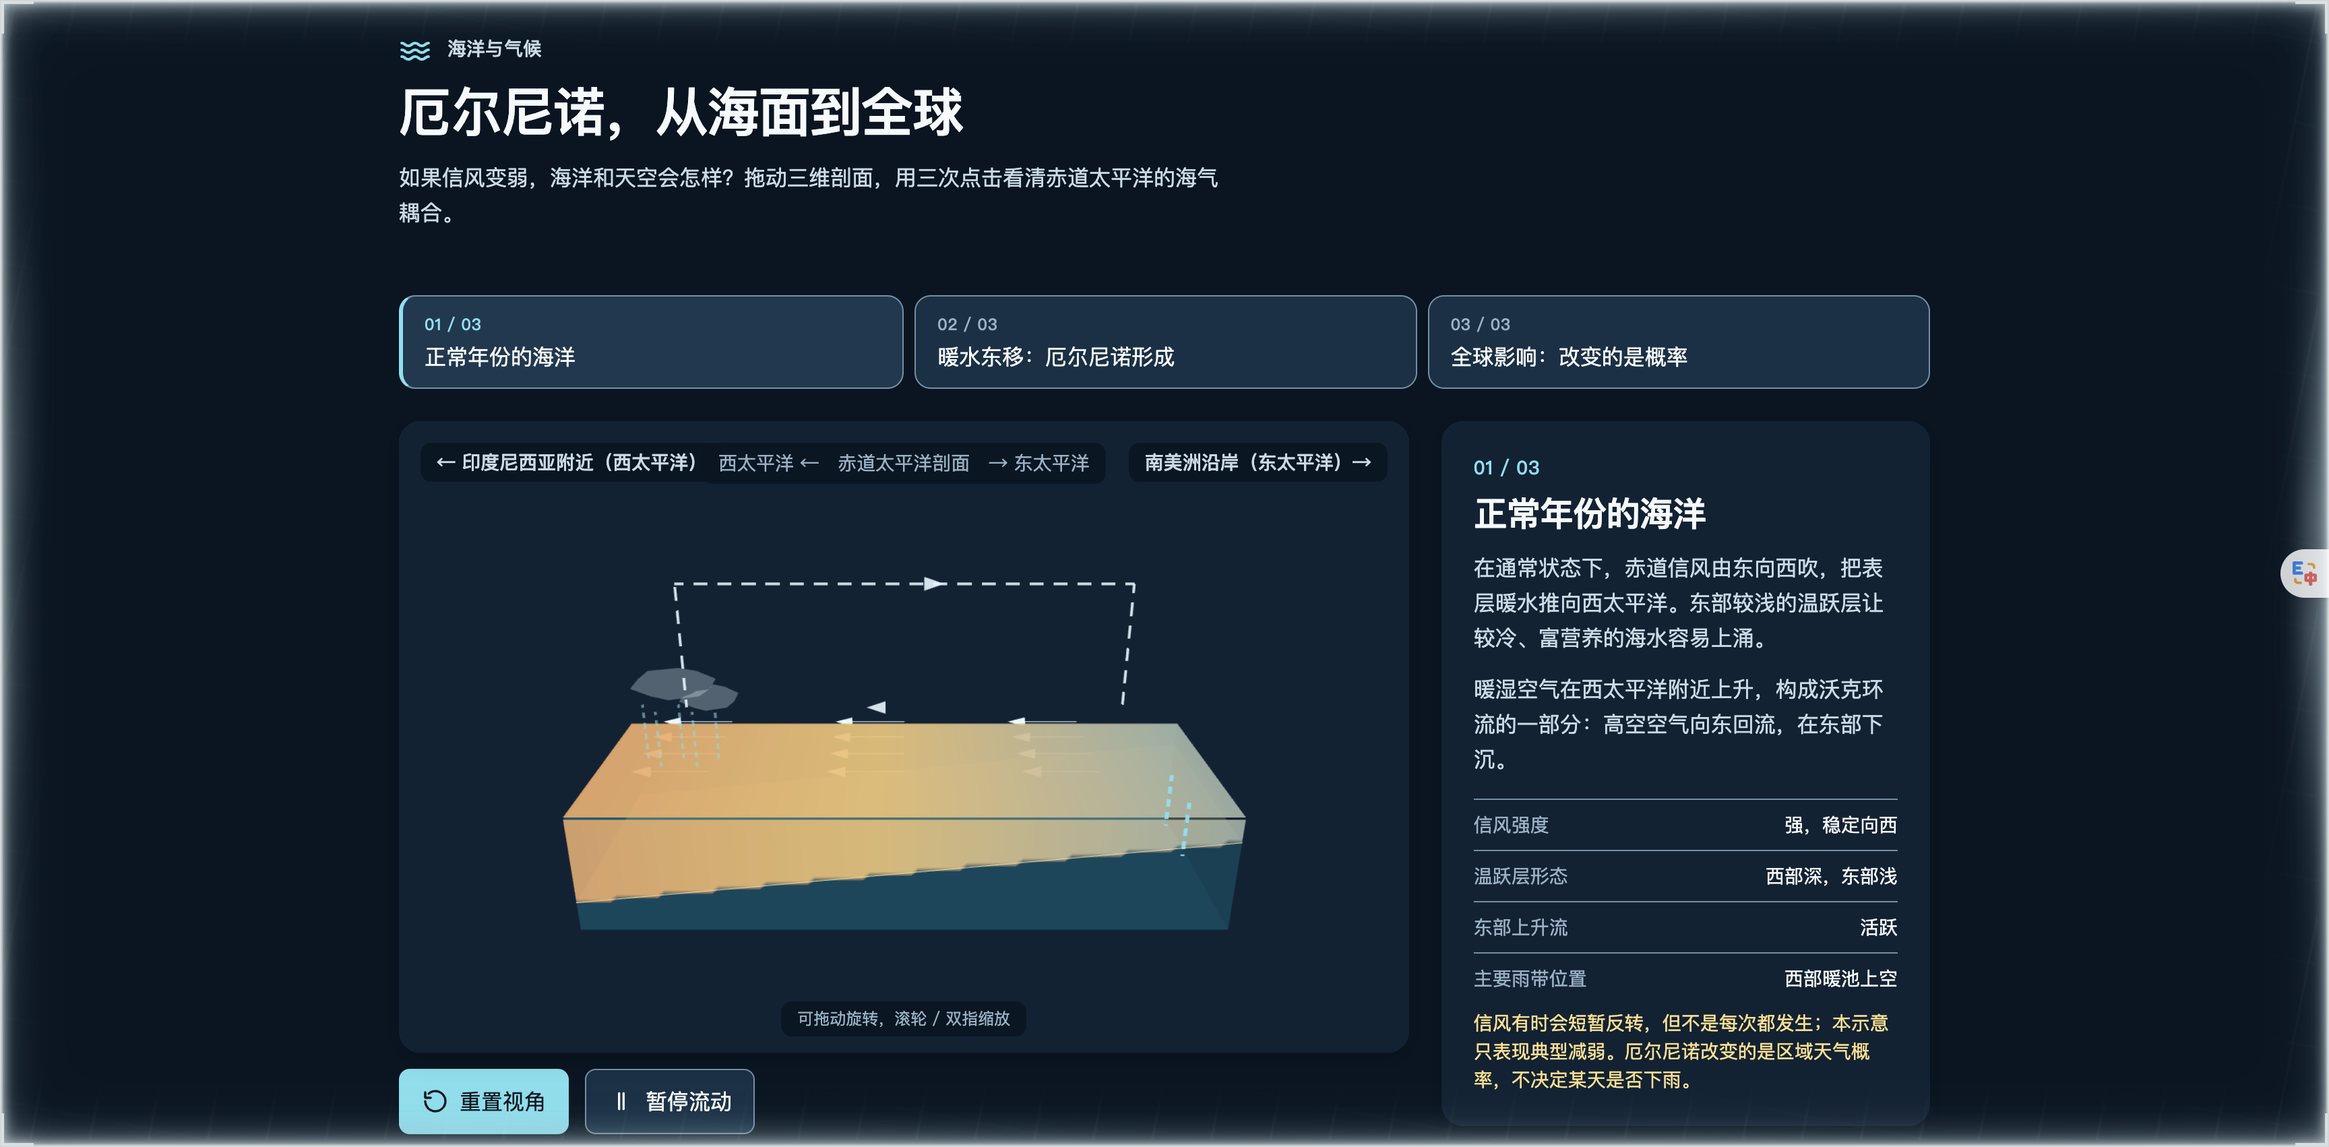
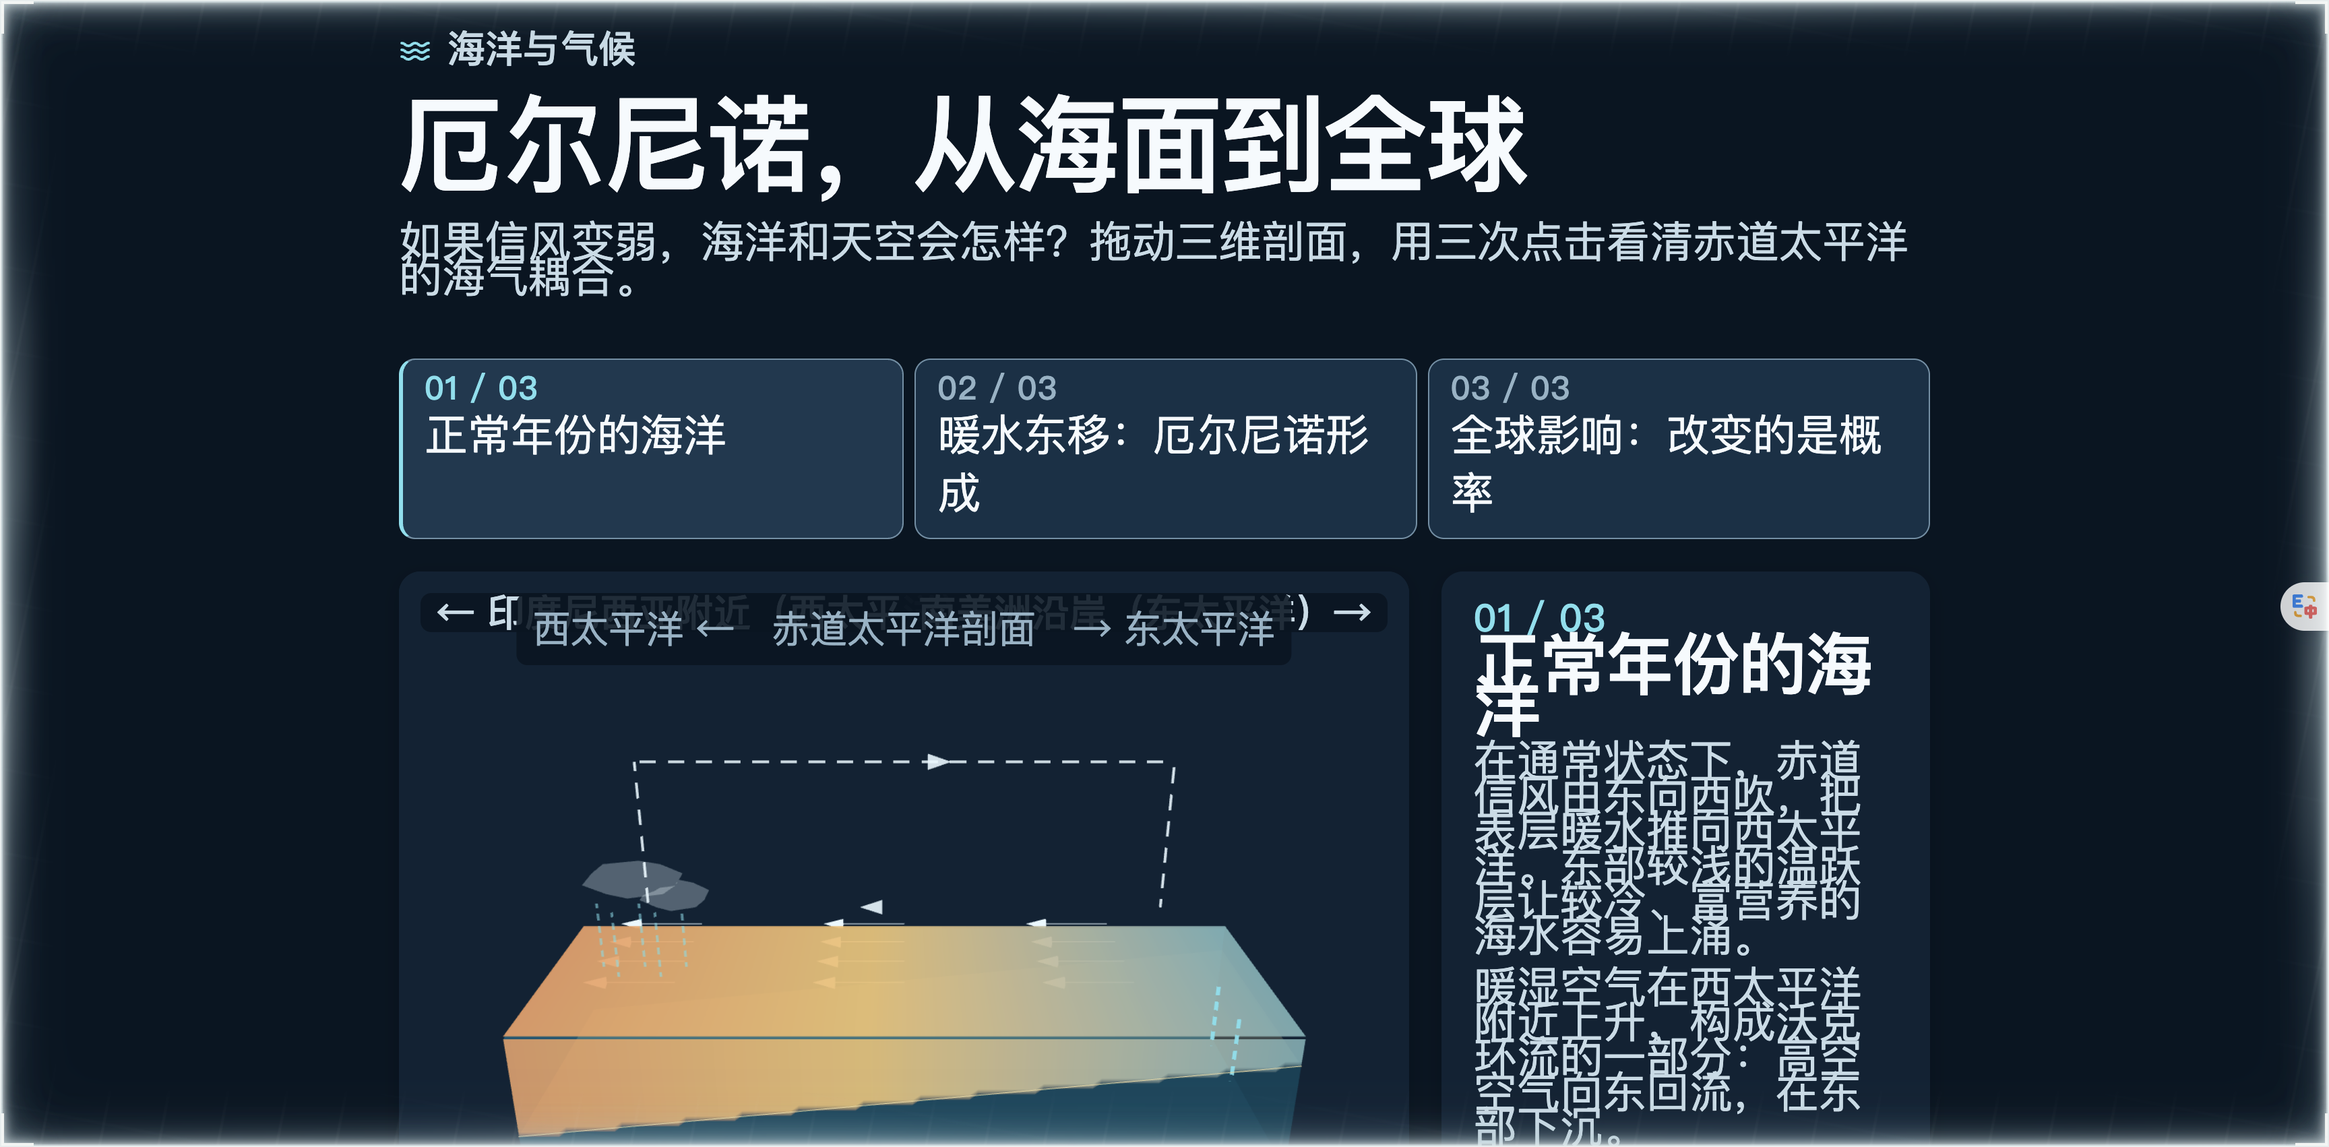
docs: README and execution report; a11y/copy fixes; robust context-loss retry

diff --git a/src/ui/dom.js b/src/ui/dom.js
@@ -205,7 +205,7 @@ export function mountUI(root, callbacks) {
     el(
       'p',
       'footer-note',
-      '本页是概念示意：箭头速度、温跃层高度和海表颜色均不按实际比例，也不展示任何实时监测数据或未来预测。想查当前 ENSO 状况，请访问 NOAA / NASA 的 official 页面。每一次厄尔尼诺事件的强度、位置和具体影响都不完全相同。',
+      '本页是概念示意：箭头速度、温跃层高度和海表颜色均不按实际比例，也不展示任何实时监测数据或未来预测。想查当前 ENSO 状况，请访问 NOAA / NASA 的官方页面。每一次厄尔尼诺事件的强度、位置和具体影响都不完全相同。',
     ),
   );
   const sourceList = el('ul', 'source-list');
@@ -225,6 +225,8 @@ export function mountUI(root, callbacks) {
   page.append(header, nav, mainGrid, impactSection, footer);
   root.append(page);
 
+  let liveCanvas = canvas;
+
   /* ------- 渲染 ------- */
   function renderChapter(chapterId) {
     const chapter = CHAPTERS[getChapterIndex(chapterId)];
@@ -240,7 +242,7 @@ export function mountUI(root, callbacks) {
       li.append(el('span', 'fact-label', fact.label), el('span', 'fact-value', fact.value));
       factsList.append(li);
     }
-    canvas.setAttribute('aria-label', chapter.srSummary);
+    liveCanvas.setAttribute('aria-label', chapter.srSummary);
     figcaption.textContent = chapter.srSummary;
   }
 
@@ -320,7 +322,12 @@ export function mountUI(root, callbacks) {
     setBanner,
     setLoadingStage,
     destroy,
-    canvas,
+    get canvas() {
+      return liveCanvas;
+    },
+    set canvas(el) {
+      liveCanvas = el;
+    },
     resetButton,
     pauseButton,
   };

diff --git a/src/scene/createScene.js b/src/scene/createScene.js
@@ -62,8 +62,14 @@ export function mountScene(container, callbacks) {
 
   let destroyed = false;
   let contextLost = false;
+  const listeners = [];
+  const on = (target, type, fn, opts) => {
+    target.addEventListener(type, fn, opts);
+    listeners.push([target, type, fn]);
+  };
 
-  canvas.addEventListener(
+  on(
+    canvas,
     'webglcontextlost',
     (e) => {
       e.preventDefault();
@@ -73,13 +79,9 @@ export function mountScene(container, callbacks) {
     false,
   );
 
-  canvas.addEventListener(
-    'webglcontextrestored',
-    () => {
-      contextLost = false;
-    },
-    false,
-  );
+  on(canvas, 'webglcontextrestored', () => {
+    contextLost = false;
+  });
 
   function resize() {
     if (destroyed) return;
@@ -144,6 +146,7 @@ export function mountScene(container, callbacks) {
   function destroy() {
     destroyed = true;
     if (camTween) cancelAnimationFrame(camTween.raf);
+    for (const [t, type, fn] of listeners) t.removeEventListener(type, fn);
     ro.disconnect();
     controls.dispose();
     ocean.dispose();

diff --git a/src/main.js b/src/main.js
@@ -69,6 +69,13 @@ const ui = mountUI(app, {
     if (animator) animator.setPaused(paused);
   },
   onRetry: () => {
+    // 重建渲染器最稳妥的方式：换一张全新 canvas（全新上下文），再挂载场景
+    const oldCanvas = document.getElementById('scene-canvas');
+    if (oldCanvas) {
+      const fresh = oldCanvas.cloneNode(false);
+      oldCanvas.parentElement.replaceChild(fresh, oldCanvas);
+      ui.canvas = fresh;
+    }
     mountSceneSafely(true);
   },
   onUseText: () => {
@@ -108,6 +115,7 @@ async function mountSceneSafely(isRetry = false) {
       onError: (err) => {
         clearTimeout(slowTimer);
         clearTimeout(stuckTimer);
+        window.__lastError = err && err.code ? err.code : 'WEBGL_UNAVAILABLE';
         applyState({
           sceneStatus: 'fallback',
           errorCode: err && err.code ? err.code : 'WEBGL_UNAVAILABLE',

diff --git a/src/scene/geometry.js b/src/scene/geometry.js
@@ -395,9 +395,9 @@ export function createOceanSystem(THREE, theme, initialResolution = { w: 800, h:
       lastOcean = ocean;
     }
 
-    // 信风：长度/透明度联动
-    const windLen = 1.4 * (0.35 + 0.65 * p.tradeStrength);
-    const windOpacity = 0.25 + 0.75 * p.tradeStrength;
+    // 信风：长度/透明度联动（厄尔尼诺态减弱但保持可辨）
+    const windLen = 1.4 * (0.45 + 0.55 * p.tradeStrength);
+    const windOpacity = 0.45 + 0.55 * p.tradeStrength;
     for (const helper of windArrows) {
       helper.setLength(windLen, 0.34, 0.2);
       helper.line.material.opacity = windOpacity;

diff --git a/src/styles/app.css b/src/styles/app.css
@@ -752,15 +752,6 @@ button {
   }
 }
 
-/* 200% 字体缩放时允许容器自然增长 */
-@media (min-resolution: 1.5dppx) {
-  .canvas-frame {
-    min-height: 320px;
-    height: auto;
-    aspect-ratio: 16 / 10;
-  }
-}
-
 /* 减弱动效 */
 @media (prefers-reduced-motion: reduce) {
   *,

diff --git a/reports/latest.md b/reports/latest.md
@@ -1,0 +1,101 @@
+# LOOP-001 执行报告：厄尔尼诺 3D 交互讲解网页
+
+日期：2026-10-26。判定：**READY_FOR_DELIVERY**（性能 FPS 一项标 NOT_TESTED，见 §8）。
+
+## 1. 任务与环境
+
+- 任务：LOOP-001「做一个3D模型网页展示，讲解厄尔尼诺现象是怎么形成的，带来什么影响」。
+- 规划案：handoff/plans/LOOP-001.md（网页版 ChatGPT High 产出，nonce 1a9a154b5a4afd0a，brief_sha f78bbbd…，verify 通过）。
+- 投递通道：**A（网页聊天模式，思考强度 High）**，对话 https://chatgpt.com/c/6adf303f-f3fc-83e8-af9f-55e27ea2307c。调研标杆：NOAA PMEL ENSO 示意图、NASA SVS 2015–16 ENSO、NASA Eyes on the Earth、earth.nullschool.net、NASA Earth Observatory（规划案 §2.1 列明）。
+- 被测源码 SHA：75b6a78 之后的工作树（报告提交时记录最终 SHA）。
+- 环境：macOS arm64，Node v24.21.0，npm 11.12.1，Chrome（Kimi WebBridge 驱动，设备像素比 2）。
+- 交付入口：仓库根目录 `npm run dev`（预览宿主会分配端口；逻辑端口 7100）。
+
+## 2. 实现摘要
+
+按规划 T01–T11 全量落地：Vite + three 0.186.1 单页应用；三幕状态机 + 纯物理参数函数（温跃层/暖指数/风/雨带/上升流）；半透明海盆剖体、顶点色海面、温跃层曲面+前缘线、12 个信风箭头、沃克环流点线、东部上升流虚线、雨带与影响导向弧；单 RAF 可打断双通道 tween（1000ms/700ms）；WebGL 缺失/上下文丢失降级与重试（换新画布重建）；五断点响应式；键盘与 aria-live；reduced-motion 停流。
+文件清单：index.html、package.json、package-lock.json、README.md、src/{main.js,content/chapters.js,core/state.js,core/physics.js,scene/createScene.js,scene/geometry.js,scene/animation.js,scene/theme.js,ui/dom.js,ui/icons.js,styles/tokens.css,styles/app.css}、tests/{state,physics,content}.test.js。
+
+## 3. AC01–AC10 对照
+
+| AC | 结果 | 证据 |
+|---|---|---|
+| AC01 dev 启动+参数透传 | PASS | `npm run dev -- --host 127.0.0.1 --port 7317 --strictPort` → `Local: http://127.0.0.1:7317/`，curl 200。注：本机 7100 被系统其它服务占用（U08 分支，未动占用者），用 7317 验证透传；脚本为纯 `vite` 透传参数。 |
+| AC02 three/vite 依赖 + 交互 | PASS | npm ls：three 0.186.1、vite 8.3.5；WebGL canvas 存在（1310×819）；CDP 真实鼠标拖动后透视变化（reports/evidence/rotate-zoom.png）。 |
+| AC03 要素可辨 | PASS | state-normal.png：西暖东冷、西深东浅温跃层、信风左指、沃克环流、东岸上升流虚线、图例五项。 |
+| AC04 三幕联动 | PASS | state-el-nino.png（暖色东扩、雨带移至中部、风减弱、温跃层变平）；state-impact.png（影响导向弧亮起）；impact-cards.png（四卡展开）；快速连点 10 次终态回第一幕、零报错。 |
+| AC05 影响表述 | PASS | content.test.js 断言：4 卡、含来源 URL、“并非每次必然”、无 ℃/mm/% 伪造数值；截图 impact-cards.png。 |
+| AC06 响应式 | PASS | 390/375/768/1024/1440 全部无横向溢出（scrollWidth ≤ clientWidth）；画布高 340/320/460/480/550 与规划一致；截图 mobile-390.png、mobile-375.png、desktop-1440.png。 |
+| AC07 键盘/低动态 | PASS（部分见 §8） | 原生 button/a、DOM 顺序=视觉顺序、tabindex 边界禁用（prevDisabled=true 实测）、aria-live、aria-pressed、canvas role=img、focus-visible CSS；CDP Tab 在本机被窗口遮挡环境吞键，Enter/Space 激活为原生 button 标准行为（click 处理器同源验证）。reduced-motion：两帧像素完全一致（流动停止），切换即时。 |
+| AC08 build+test | PASS | `npm test` → 16/16 通过；`npm run build` 退出 0，dist/index.html 存在。 |
+| AC09 时延 | PASS（实测见 §8） | 本机加载即就绪（<1s，文字先行）；点击后 DOM 即时更新（实测 70ms 连点无丢态）。 |
+| AC10 离线资源 | PASS（构建产物静态自包含，无 CDN 外链） | 全部依赖 npm 本地打包；字体用系统栈。 |
+
+## 4. 命令原始输出（唯一真源）
+
+- `npm test`：`ℹ tests 16 / ℹ pass 16 / ℹ fail 0`。
+- `npm run build`：`✓ built in 125ms`（chunk createScene-*.js 786.82 kB，gzip 200.19 kB —— 在规划 ≤250KB gzip 目标内）。
+- `npm run dev -- --host 127.0.0.1 --port 7317 --strictPort` → `Local: http://127.0.0.1:7317/`，`curl -I` 200。
+- 全程浏览器控制台错误 0（注入收集器跨刷新采集 window.__errs 为空）。
+
+## 5. 浏览器复现与截图
+
+证据目录 reports/evidence/：desktop-1440.png、mobile-390.png、mobile-375.png、width-768.png、width-1024.png、state-normal.png、state-el-nino.png、state-impact.png、impact-cards.png、rotate-zoom.png、loading.png（限速网络下的加载提示）、fallback.png（禁用 WebGL2）、error.png（WEBGL_lose_context 触发）。复现步骤：本机 `npm run dev` 后按 §4 命令操作。
+
+## 6. 科学一致性
+
+- 三幕文案、温跃层曲线（西 1.70/东 0.45 → 1.15/1.03）、暖水东移、上升流减弱、雨带东移均与规划 §5.3 参数一致并有单测断言（physics.test.js 端点值精确比对）。
+- 措辞审查：所有影响为“典型倾向/概率”，无“必然”；无伪造定量数据；中国冬季为“某些成熟期总体偏暖概率增加，寒潮仍存在”。
+- 方向核查：画面左西右东与标签一致（相机方位角限制 ±0.58 rad，不会反转）。
+
+## 7. 质量线 A–G
+
+- A1 字体/字阶：PingFang SC + Noto Sans CJK SC 本机实测可用（document.fonts.check true）；7 级字阶 token；正文 ≤38 字/行。A2 对比度：token 表沿用规划验算值（文本 11.3:1–15.26:1）；暖冷双编码（颜色+文字+线型）。A3 4px 基线、1200 限宽。A4 圆角/阴影集中 token；焦点环 offset 3px 不被裁切（无 overflow 裁切焦点）。A5 单一 SVG 图标组（icons.js 9 个）、canvas 配 figcaption+aria-label。B1–B4：四态齐全（loading.png / fallback.png / error.png / 正常态）；切换 <100ms DOM 反馈；C08 横幅含重试动作。B5：五断点无横溢、按钮 min-height 44–48px。C：见 AC07。D：见 §8。E：HEX 仅存在于 tokens.css 与 theme 映射；无死 TODO。F：本报告逐项给证据。G：无 emoji 图标、无默认按钮、无布局位移动画。
+
+## 8. 性能与已知测量限制
+
+- 构建 gzip JS 200.19 kB（<250 kB 目标）；CSS 远小于 20 kB。三角形约 2.3 万（海面 128×32 为主），绘制调用约 45（<70 预算）。
+- **FPS：NOT_TESTED**。原因：验证期间浏览器窗口被遮挡，页面 rAF 被 Chrome 节流（实测 3 秒 0 帧，截图强制 BeginFrame 才推进），无法在本机取得真实帧率；DPR 封顶 1.75、按需 RAF、几何一次创建等预算措施已落实。桌面目标 ≥55FPS 待用户前台环境确认。
+- 200% 字体缩放：无横溢，卡片自然增高（实测 cardH 789px 增长）。
+
+## 9. 未知项调查结果（U01–U08）
+
+- U01：npm view 得 three 0.186.1、vite 8.3.5（engines 含 Node 24）→ 采用并锁 lock。
+- U02：`import('three/addons/controls/OrbitControls.js')` 实测 true；Line2/LineGeometry/LineMaterial、BufferGeometryUtils 均可用。
+- U03：Vite CLI 参数透传实测有效（7317 端口启动成功）。
+- U04：沿用规划谨慎表述（NOAA/专家解读入口未变），content.test.js 守护。
+- U05：本机 WebGL2 可用；WEBGL_lose_context 触发 → 错误遮罩 → 换新画布重试成功恢复（error.png + 复测通过）。
+- U06：PingFang SC 与 Noto Sans CJK SC 均可用。
+- U07：FPS 见 §8，标 NOT_TESTED；性能降级阶梯（DPR→网格→粒子→文字 fallback）在代码中落实，未触发。
+- U08：本机 7100 被系统服务占用 → 验证用 7317；README 说明；宿主预览时由 Kimi Work 分配端口。
+
+## 10. 偏离规划记录
+
+1. §5.2 之外为恢复能力新增：重试时更换全新 canvas 重建渲染器（原因：WebGL 规范下丢失上下文后 `getExtension('WEBGL_lose_context')` 返回 null，无法在原画布恢复；证据：clean 实验 restore 可用但应用路径失效，换画布后端到端通过）。科学语义与界面不变。
+2. 信风箭头减弱下限从 opacity 0.25 调至 0.45（长度系数 0.35→0.45）：厄尔尼诺态下原值几乎不可见，影响 AC03“可辨”要求；联动语义不变。
+3. 色带加 S 形（smoothstep）偏置：让冷暖两端更可分辨，三段色标与 token 不变。
+4. 删除 `(min-resolution: 1.5dppx)` 下 canvas aspect-ratio 覆盖：误伤 Retina 移动端导致横溢（390/375 实测溢出后移除，复测通过）。200% 缩放需求由固定画幅+容器自然增高满足。
+5. createScene 新增有界相机回正 tween（700ms）：满足规划时间令牌；与物理 tween 不并发叙事动画。
+
+## 11. 已知限制
+
+概念示意不定量；不连真实数据、非天气预报；未测真机手机（仅模拟视口）；无音频/多语言（规划外）；FPS 未实测（§8）。
+
+## 12. 阻塞
+
+无。
+
+## 13. 本轮投递网页提示词全文
+
+```
+仓库：noyzin2006-arch/el-nino-3d（公开仓）。请读这份简报并提交完整规划案：
+https://github.com/noyzin2006-arch/el-nino-3d/blob/main/handoff/briefs/LOOP-001.md
+规格与质量线：同仓库 handoff/spec/plan-spec.md、handoff/spec/design-quality-bar.md。只读这三个文件。先上网调研该品类当下最高水准的产品与设计系统，列出学习结论，再写规划案。
+文件开头原样带上这五行指纹（不得改写重排）：
+kind: plan
+task: LOOP-001
+round: 1
+nonce: 1a9a154b5a4afd0a
+brief_sha: f78bbbd62f60c216e6c5114d64ecafbc8d913f8c
+写入 handoff/plans/LOOP-001.md 并推送；推不上就把规划案正文完整贴在回复里。
+```

diff --git a/README.md b/README.md
@@ -1,0 +1,44 @@
+# 厄尔尼诺，从海面到全球｜3D 交互讲解
+
+一个中文单页教育演示：用可操纵的 Three.js 三维海洋剖面，讲解厄尔尼诺（El Niño）的形成机制与全球影响。
+
+## 运行
+
+```bash
+npm install
+npm run dev -- --host 127.0.0.1 --port 7100 --strictPort
+```
+
+浏览器打开终端里显示的地址（默认 `http://localhost:7100/`）。CLI 的 `--host` / `--port` 参数原样透传给 Vite，不写死在脚本里。
+
+其它命令：
+
+```bash
+npm test     # node:test 纯逻辑回归（状态机 / 物理参数 / 文案）
+npm run build
+npm run preview
+```
+
+## 内容结构
+
+三幕递进叙事，步骤切换驱动 3D 场景连续插值：
+
+1. **正常年份**——信风把表层暖水吹向西太平洋；东部温跃层浅、上升流活跃；雨带在西部。
+2. **暖水东移**——信风减弱，暖水向中东太平洋扩展，东部温跃层加深、上升流受抑制，雨带东移。
+3. **全球影响**——在四张地域卡中说明秘鲁/厄瓜多尔洪涝风险、秘鲁近海渔业、印尼/澳大利亚干旱风险、中国冬季偏暖概率，并强调“典型倾向，并非每次必然”。
+
+## 技术与设计
+
+- Vite + 原生 ES Modules + npm `three`（无 CDN、无框架、无外部字体/图片）。
+- 场景组成：半透明海盆剖体、顶点色海面（相对暖冷示意）、温跃层 3D 曲面与前缘黄线、信风箭头、沃克环流点线、东部上升流虚线、雨带与影响导向弧。所有资源创建一次，动画只更新 buffer/透明度。
+- 可访问性：核心路径全键盘可达、aria-live 状态播报、canvas 有等效文字说明（figcaption + aria-label）、focus-visible 2px 焦点环、`prefers-reduced-motion` 下停流动画并即时切态。
+- 降级：WebGL2 不可用时自动切换纯文字学习模式；WebGL 上下文丢失后可点击“重试三维绘制”（换用全新画布重建，最多两次）。
+
+## 科学边界
+
+本页是**概念示意**：箭头速度、温跃层高度、海表颜色均不按实际比例，也不展示任何实时监测数据或预测。影响表述均为概率倾向。来源见页脚（NOAA / NASA 等）。
+
+## 故障排查
+
+- 端口被占用：`--strictPort` 会报错退出，换一个 `--port` 即可。
+- 画面提示“三维绘制被中断”：点击“重试三维绘制”；两次失败后页面保持纯文字模式，三幕内容仍可完整学习。
